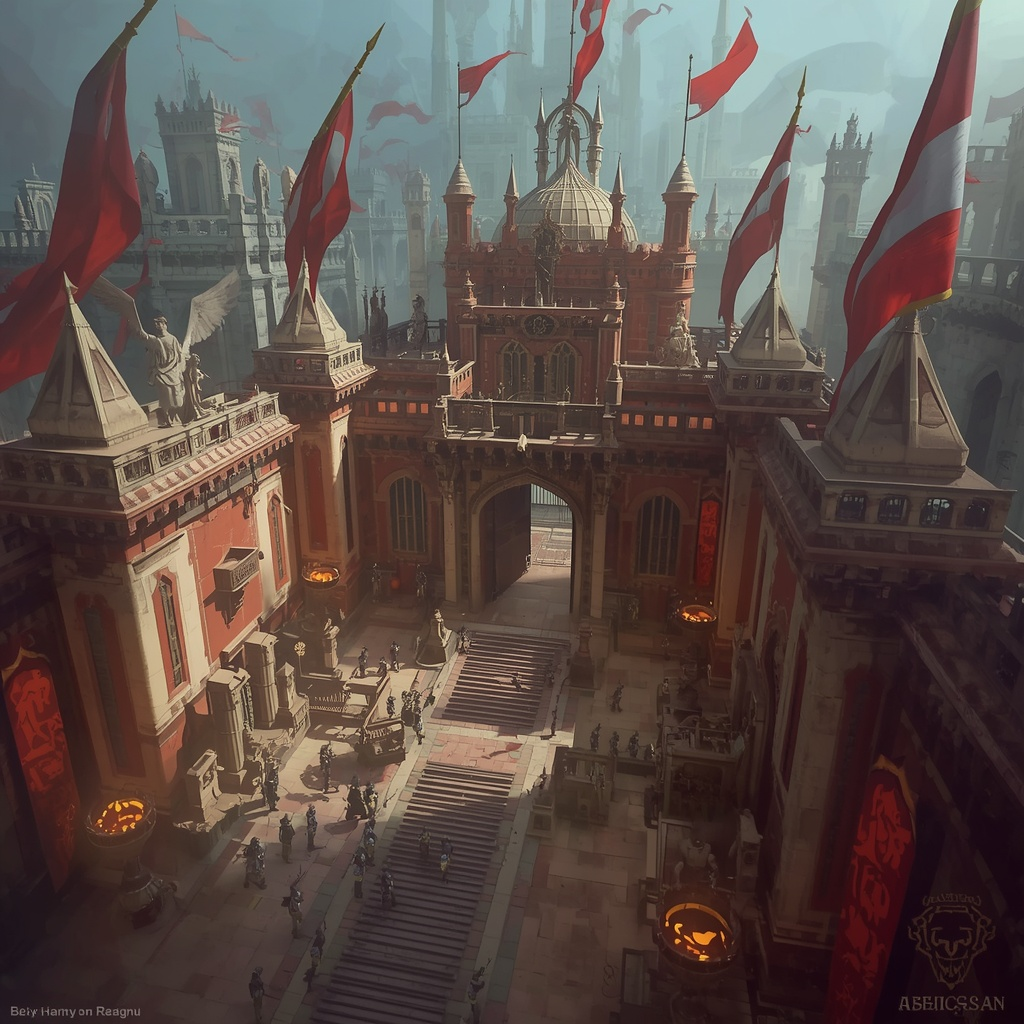
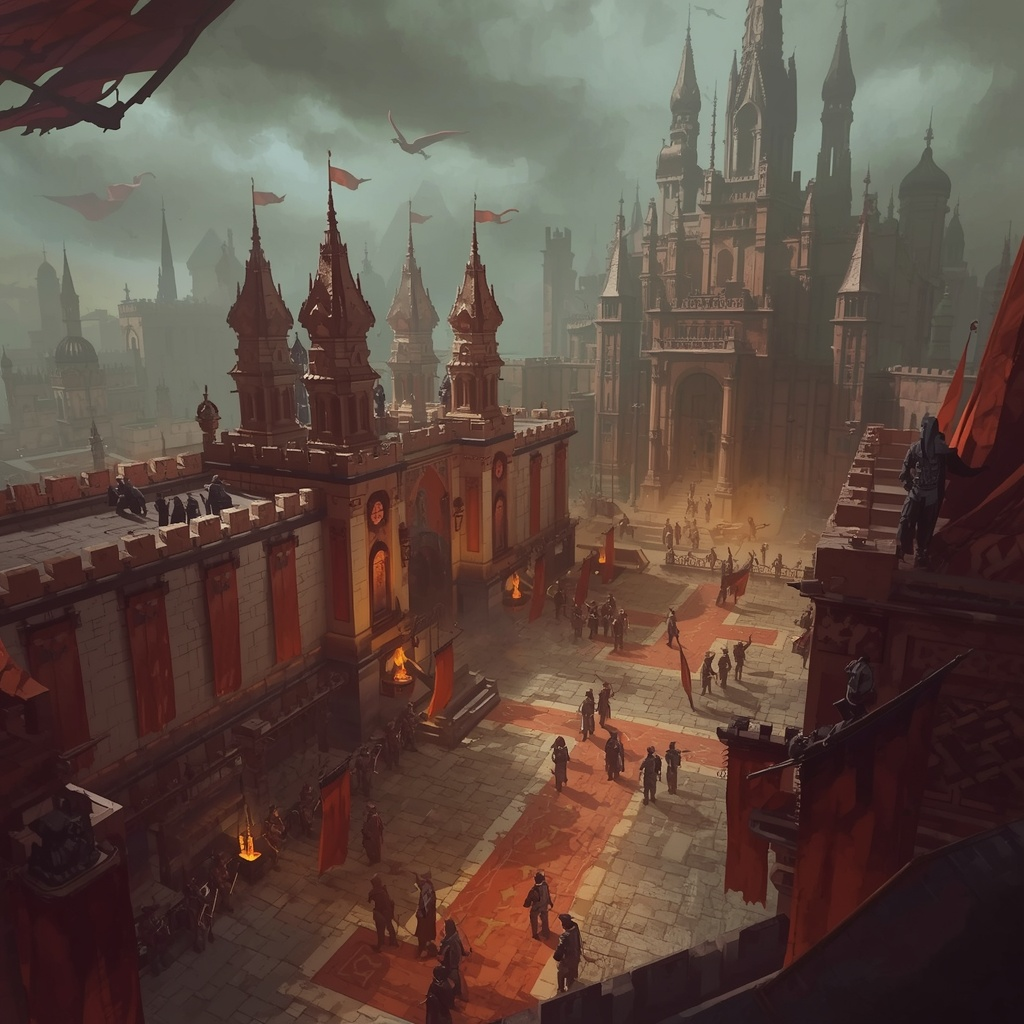
feat(v3.7.0): landing — Casa Solar (actualitza) + Yermos Rojos (nou edifici)

diff --git a/docs/index.html b/docs/index.html
@@ -106,7 +106,7 @@ const IMG_EDIFICIS={
   "Calabozos Boros":"Aventino/Calabozos Boros.jpg","Callejuelas":"Aventino/Callejuelas.jpg",
   "Sastre":"Aventino/Sastrería.jpg","Sastrería":"Aventino/Sastrería.jpg",
   "Campamento Gruul":"Aventino/Campamento Gruul.jpg","Cloacas Golgari":"Aventino/Cloacas Golgari.jpg",
-  "Herbolario":"Aventino/Herbolario.jpg","Casa Solar":"Aventino/Casa Solar.jpg",
+  "Herbolario":"Aventino/Herbolario.jpg","Casa Solar":"Aventino/Casa Solar.jpg","Yermos Rojos":"Aventino/Yermos Rojos.jpg",
   "Tienda del shamán Gruul":"Aventino/Tienda del shamán Gruul.jpg",
   "Tienda del Shamán Gruul":"Aventino/Tienda del shamán Gruul.jpg",
   "Tienda del shaman Gruul":"Aventino/Tienda del shamán Gruul.jpg",

diff --git a/src/index.html b/src/index.html
@@ -106,7 +106,7 @@ const IMG_EDIFICIS={
   "Calabozos Boros":"Aventino/Calabozos Boros.jpg","Callejuelas":"Aventino/Callejuelas.jpg",
   "Sastre":"Aventino/Sastrería.jpg","Sastrería":"Aventino/Sastrería.jpg",
   "Campamento Gruul":"Aventino/Campamento Gruul.jpg","Cloacas Golgari":"Aventino/Cloacas Golgari.jpg",
-  "Herbolario":"Aventino/Herbolario.jpg","Casa Solar":"Aventino/Casa Solar.jpg",
+  "Herbolario":"Aventino/Herbolario.jpg","Casa Solar":"Aventino/Casa Solar.jpg","Yermos Rojos":"Aventino/Yermos Rojos.jpg",
   "Tienda del shamán Gruul":"Aventino/Tienda del shamán Gruul.jpg",
   "Tienda del Shamán Gruul":"Aventino/Tienda del shamán Gruul.jpg",
   "Tienda del shaman Gruul":"Aventino/Tienda del shamán Gruul.jpg",